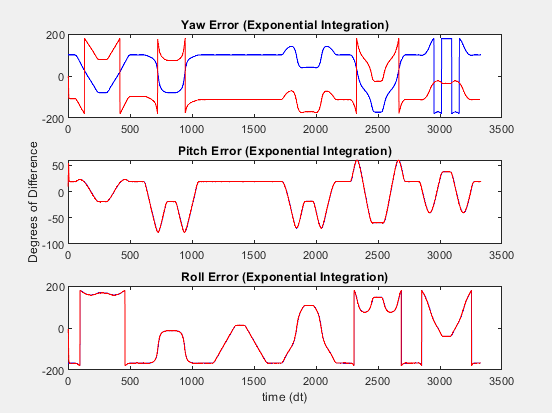
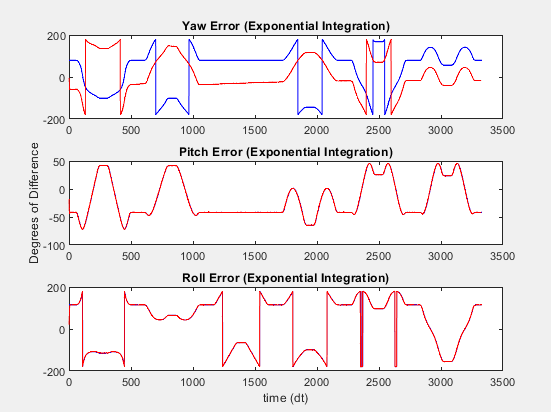
part 5 changed

Changed region(s): [[0.0309, 0.0291, 0.9564, 0.9903]]

diff --git a/Matlab/Part5ClosedLoop.m b/Matlab/Part5ClosedLoop.m
@@ -23,7 +23,7 @@ nT = 23194.3/1000;           % nanoTeslas from microTeslas
 accelInertial = [0; 0; gravity];
 
 % Define a unit vector pointing in the direction of magnetic north
-magInertial = [nT; 0; 0];
+magInertial = [22770;5329;41510.2]/1000;
 
 % Step 2: Extract true Euler angles and bias
 yaw_true = deg2rad(Eul_true(:, 1));

diff --git a/Matlab/IntegrateClosedLoop.m b/Matlab/IntegrateClosedLoop.m
@@ -26,7 +26,7 @@ function [Rplus, Bplus] = IntegrateClosedLoop(Rminus, Bminus, gyros, mags, accel
 Kp_a=25;
 Ki_a=Kp_a/10;
 
-Kp_m=5;
+Kp_m=10;
 Ki_m=Kp_m/10;
 
 accels = accels/norm(accels);                       % set mags and accels to unit vectors
